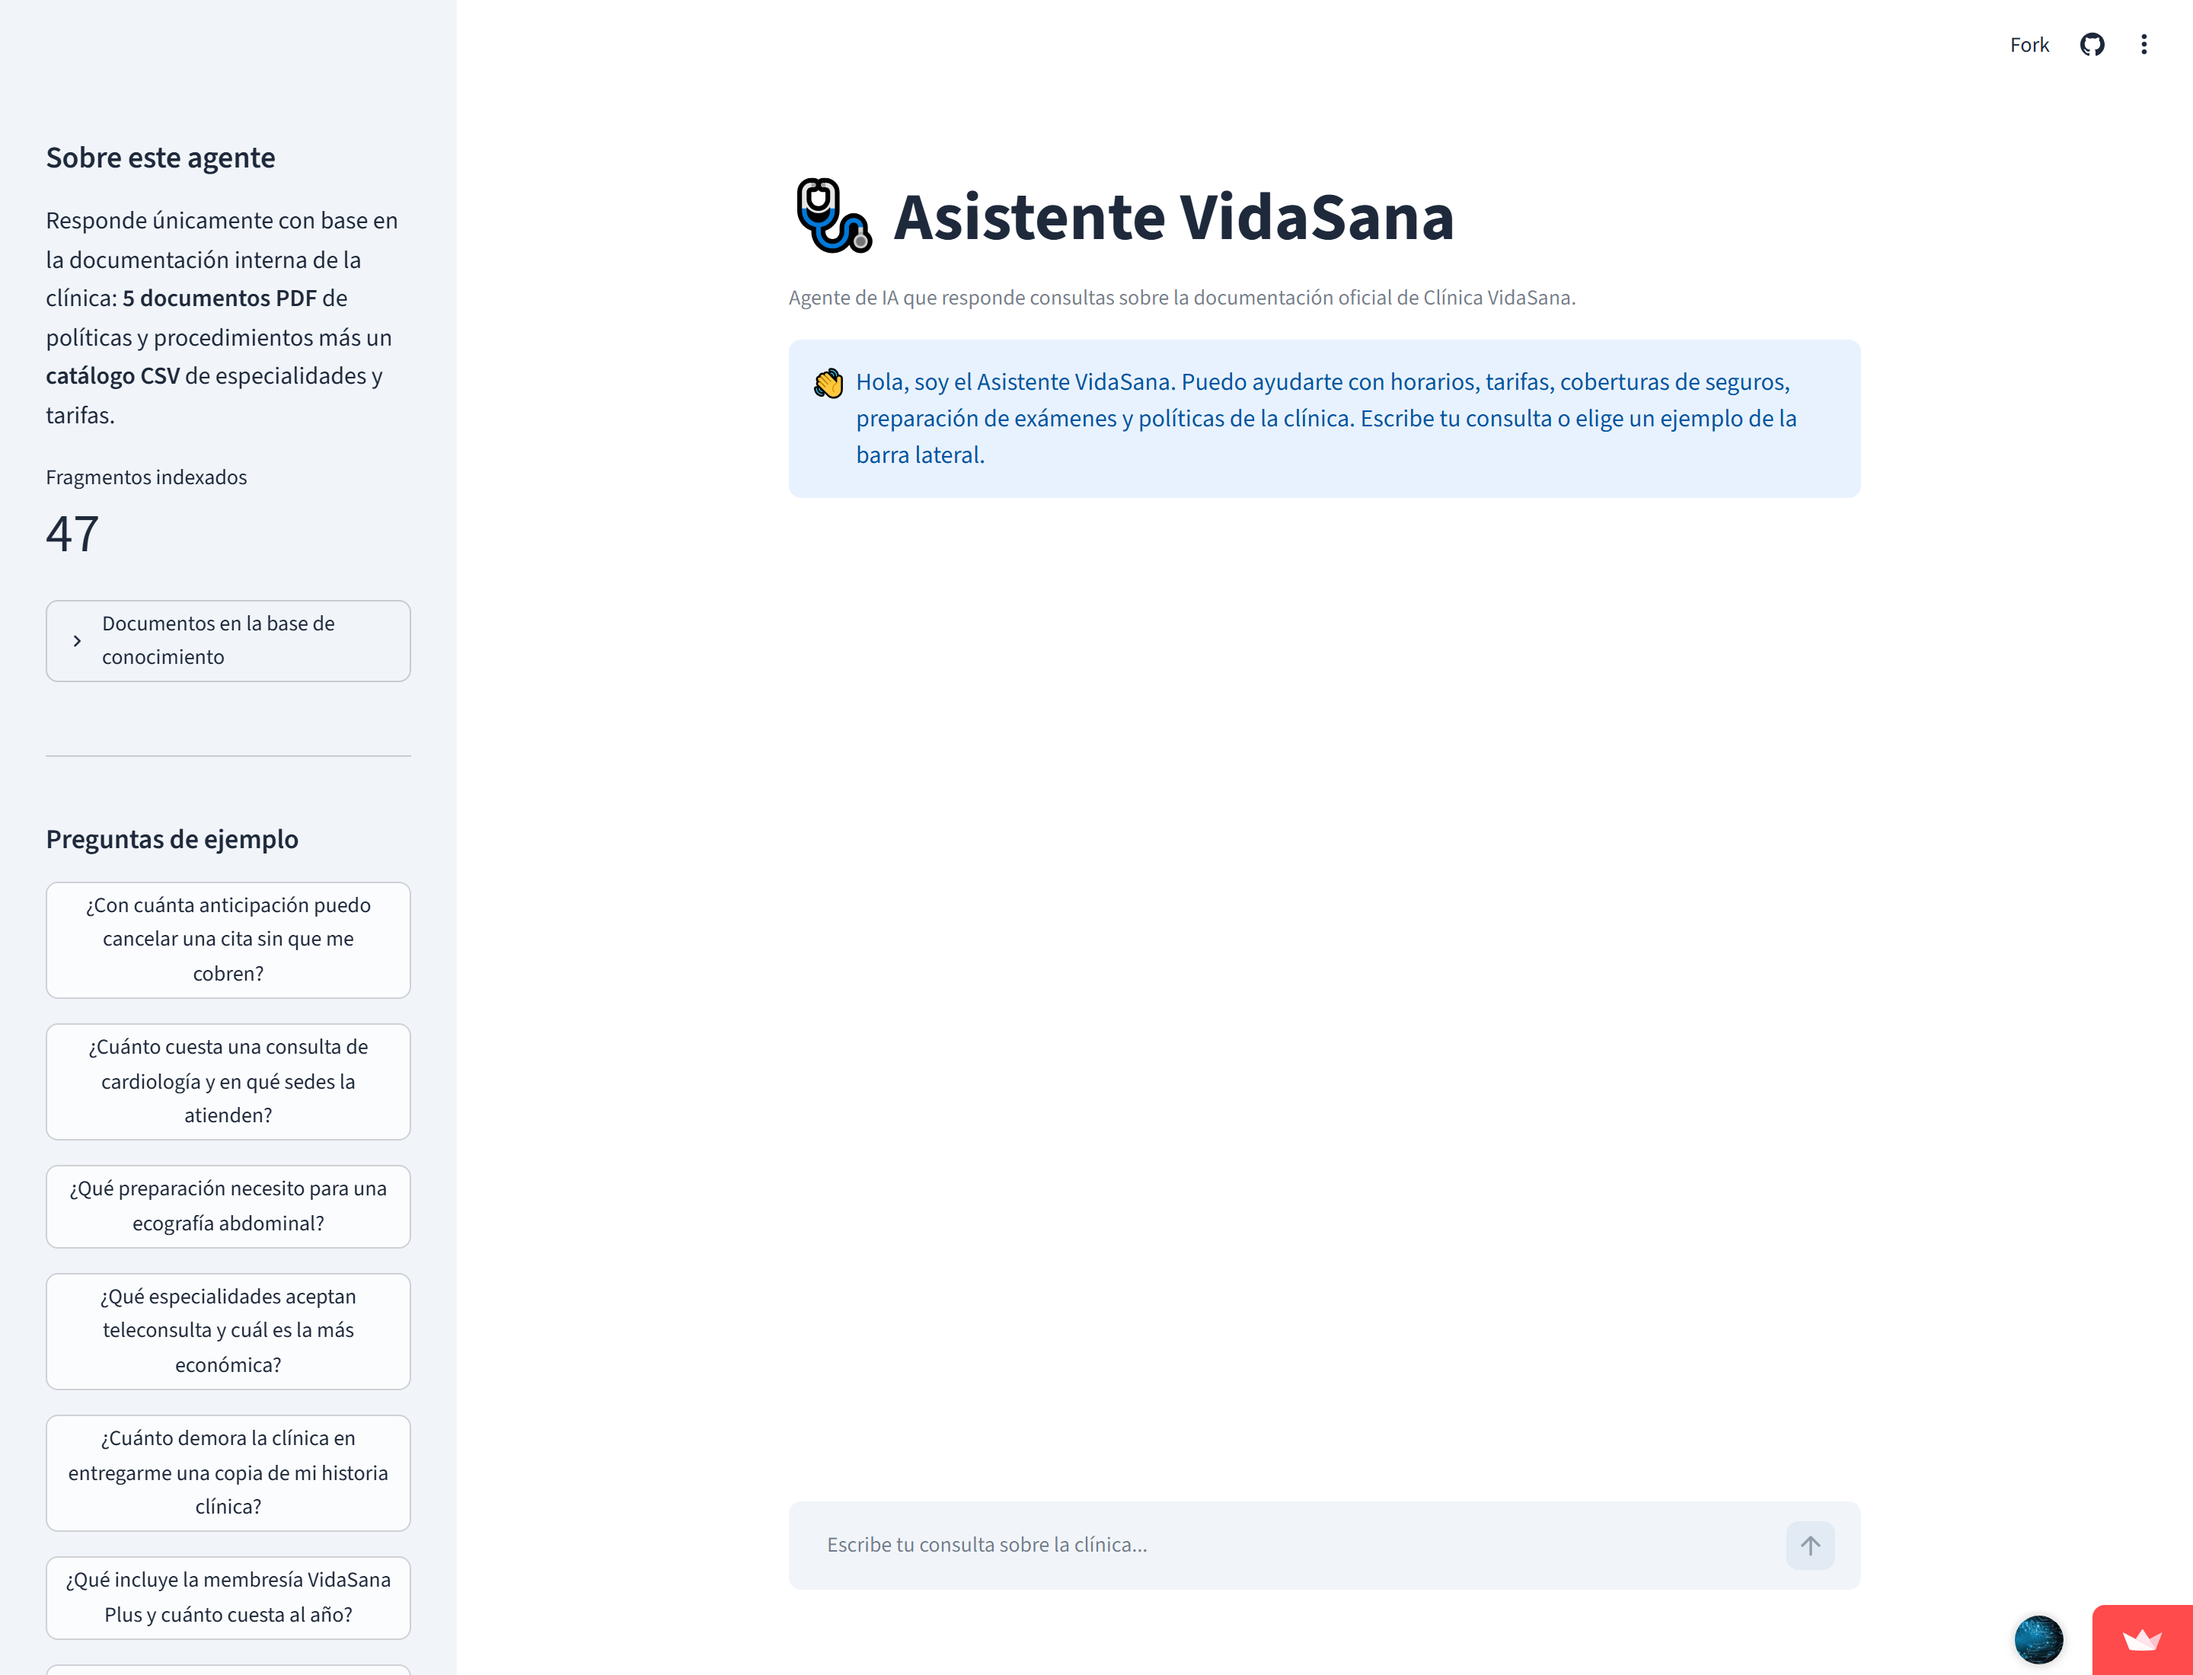
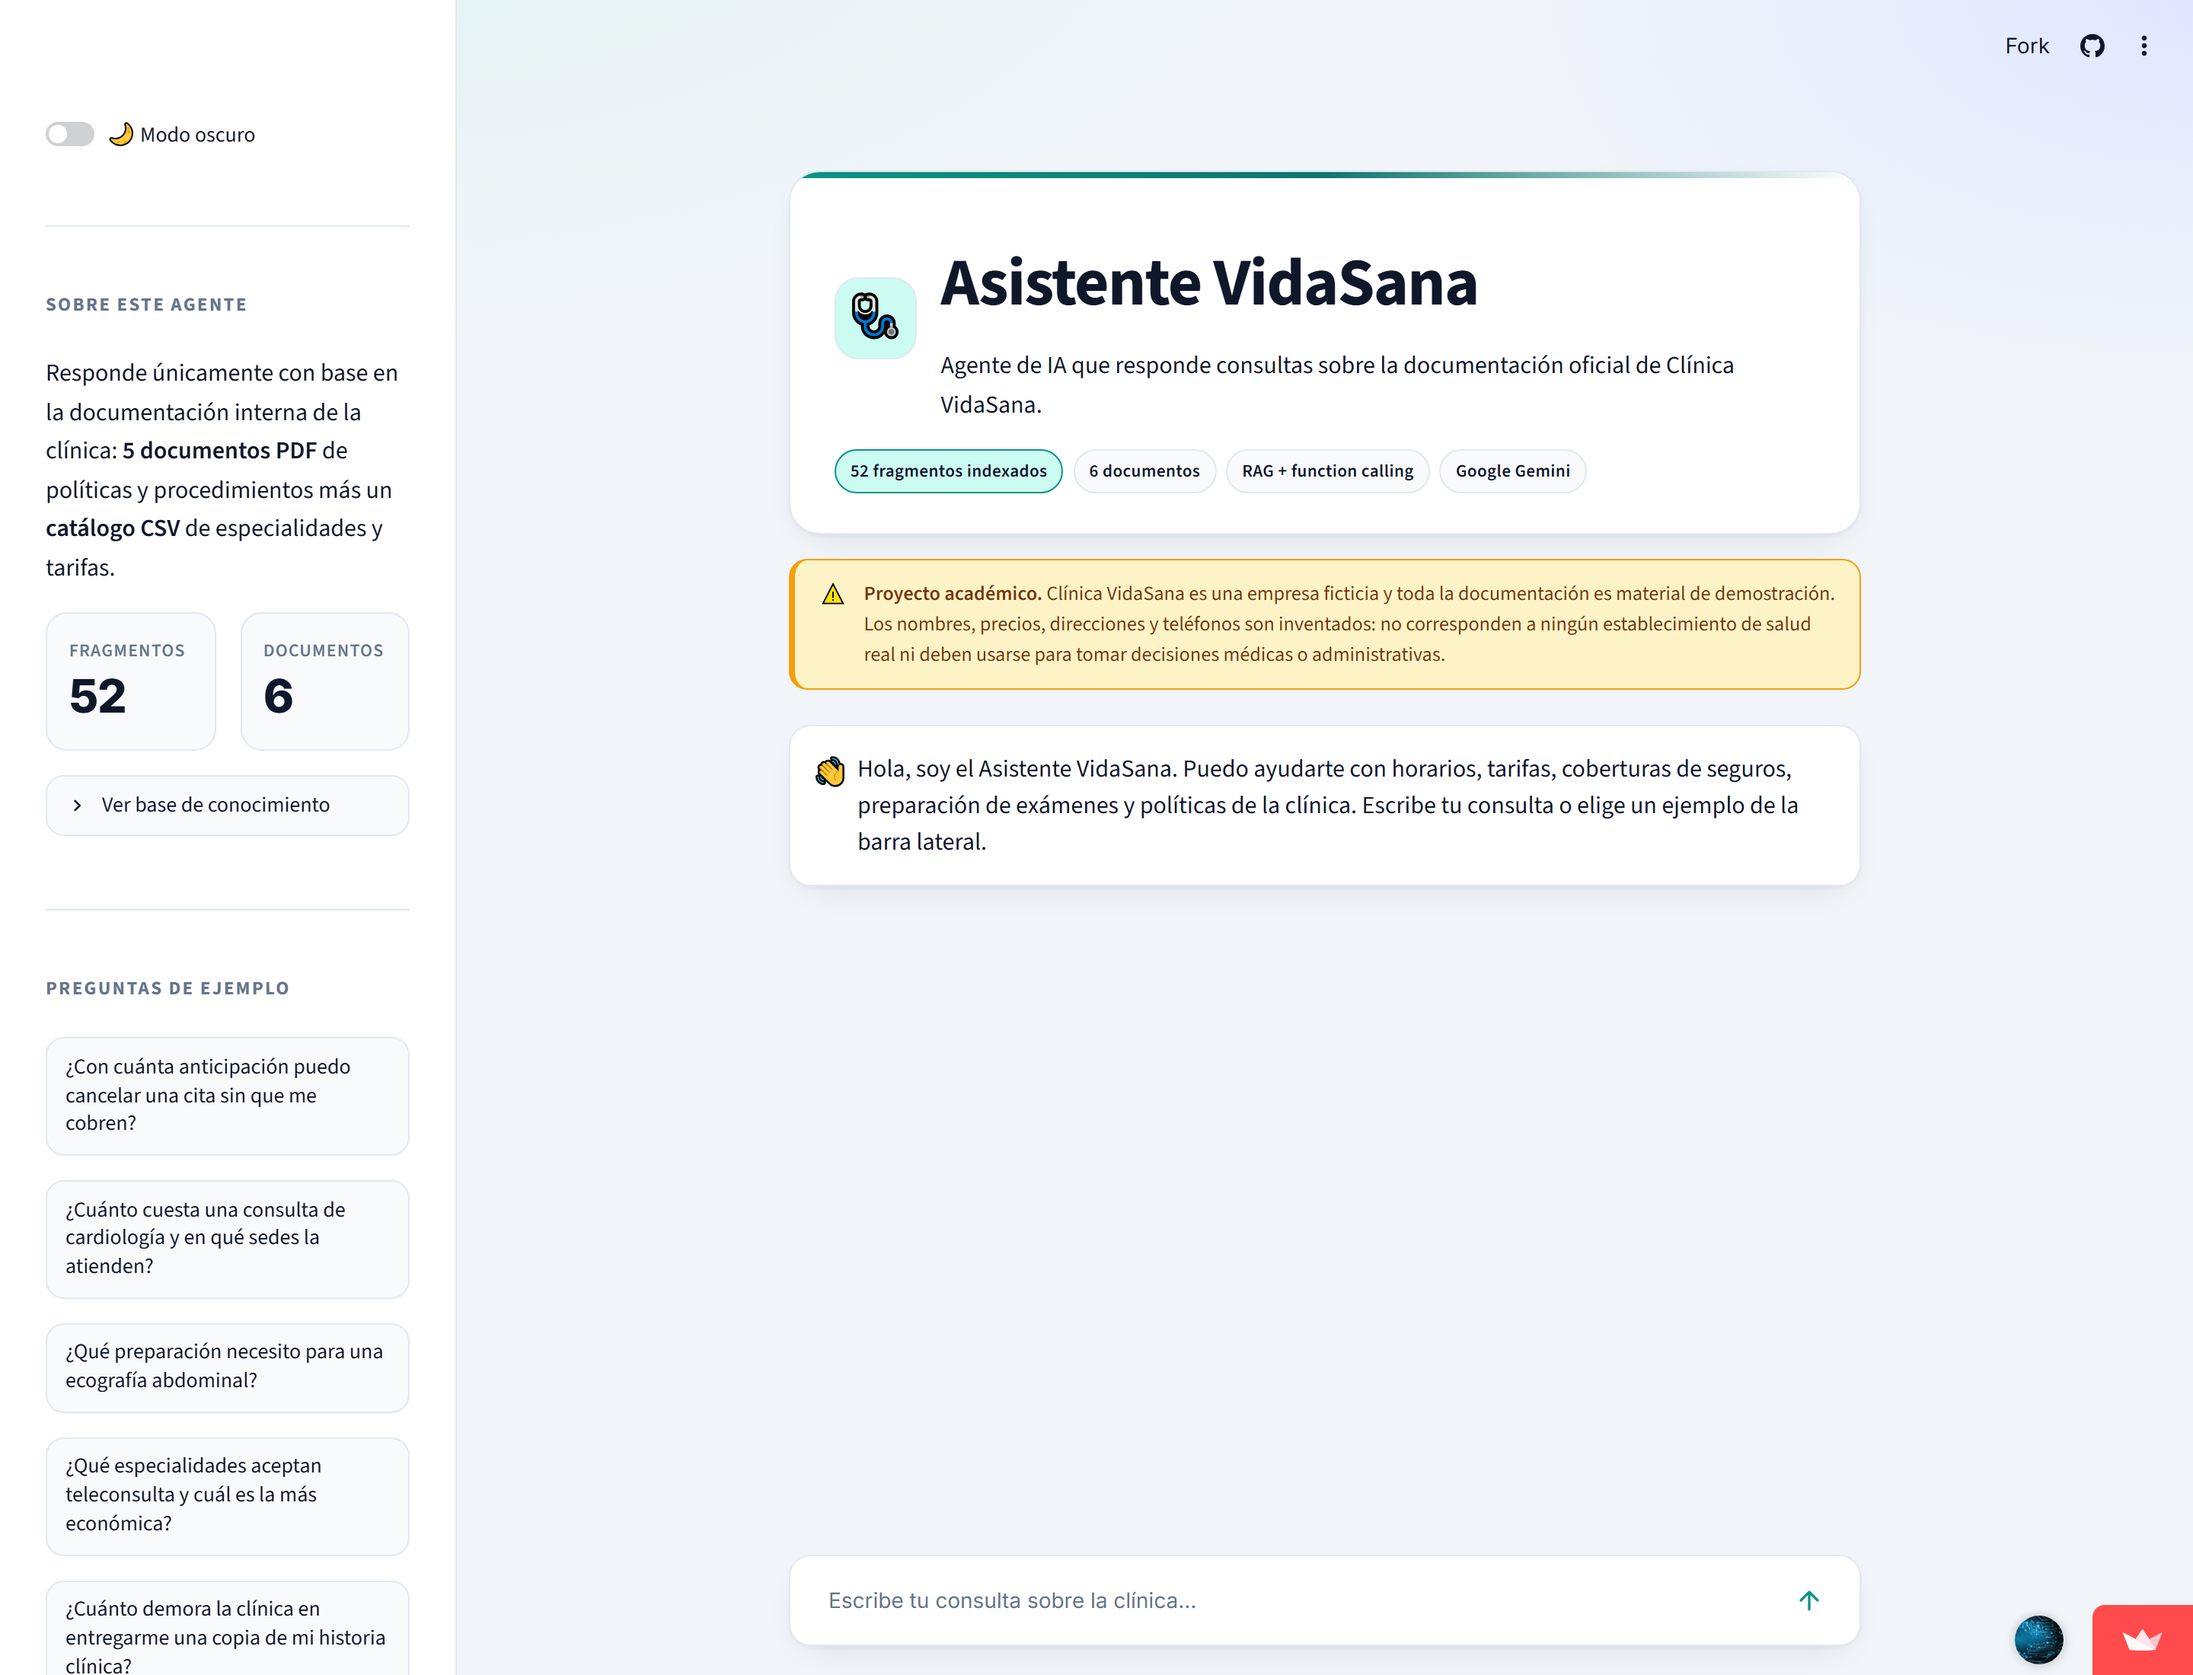
docs: actualiza la evidencia con el rediseno y el modo oscuro
capturar_evidencia.py anade una cuarta captura que activa el tema oscuro
en la aplicacion desplegada. Las cuatro imagenes se regeneran de una sola
pasada contra la URL publica.

diff --git a/scripts/capturar_evidencia.py b/scripts/capturar_evidencia.py
@@ -88,6 +88,14 @@ def main() -> None:
         pagina.screenshot(path=str(ruta))
         print(f"  3/3  {ruta.name}")
 
+        print("Cambiando a modo oscuro...")
+        app.get_by_text("Modo oscuro", exact=False).click()
+        pagina.wait_for_timeout(3_500)
+
+        ruta = DESTINO / "04-modo-oscuro.png"
+        pagina.screenshot(path=str(ruta))
+        print(f"  4/4  {ruta.name}")
+
         navegador.close()
 
     print(f"\nCapturas guardadas en {DESTINO}")

diff --git a/README.md b/README.md
@@ -138,7 +138,7 @@ documentos consultados.
 | Lectura de PDF | **`pypdf`** | Extracción de texto página por página |
 | Datos tabulares | **`pandas`** | Carga y consulta estructurada del CSV |
 | Índice vectorial | **`numpy`** | Similitud coseno sobre matriz normalizada |
-| Interfaz web | **`Streamlit`** | Chat, traza de fuentes y ejemplos |
+| Interfaz web | **`Streamlit`** | Chat, traza de fuentes, ejemplos y tema claro/oscuro |
 | Generación de PDFs | **`reportlab`** | Script reproducible de la base documental |
 | Configuración | **`python-dotenv`** | Gestión de la API key |
 | Deploy | **Streamlit Community Cloud** | Hospedaje público y gratuito |
@@ -441,6 +441,13 @@ documento citado.
 
 ![Traza de herramientas y fuentes](docs/capturas/03-traza-fuentes.png)
 
+**4. Modo oscuro**
+
+La interfaz incluye un interruptor de tema en la barra lateral. Ambas paletas se definen en
+`src/estilos.py` y se inyectan como variables CSS en cada render.
+
+![La aplicación en modo oscuro](docs/capturas/04-modo-oscuro.png)
+
 > Estas capturas **se generan automáticamente** contra la URL pública con
 > [`scripts/capturar_evidencia.py`](scripts/capturar_evidencia.py), que abre la aplicación
 > con un navegador real, lanza la consulta y guarda las tres imágenes. Así la evidencia se
@@ -493,6 +500,7 @@ challenge-alura-agente-vidasana/
 │
 └── src/
     ├── config.py                # Modelos, rutas y parámetros
+    ├── estilos.py               # Paletas clara/oscura y hoja de estilos
     ├── loaders.py               # Lectura de PDF/CSV y fragmentación
     ├── vectorstore.py           # Embeddings e índice por coseno
     ├── tools.py                 # Las 3 herramientas del agente
